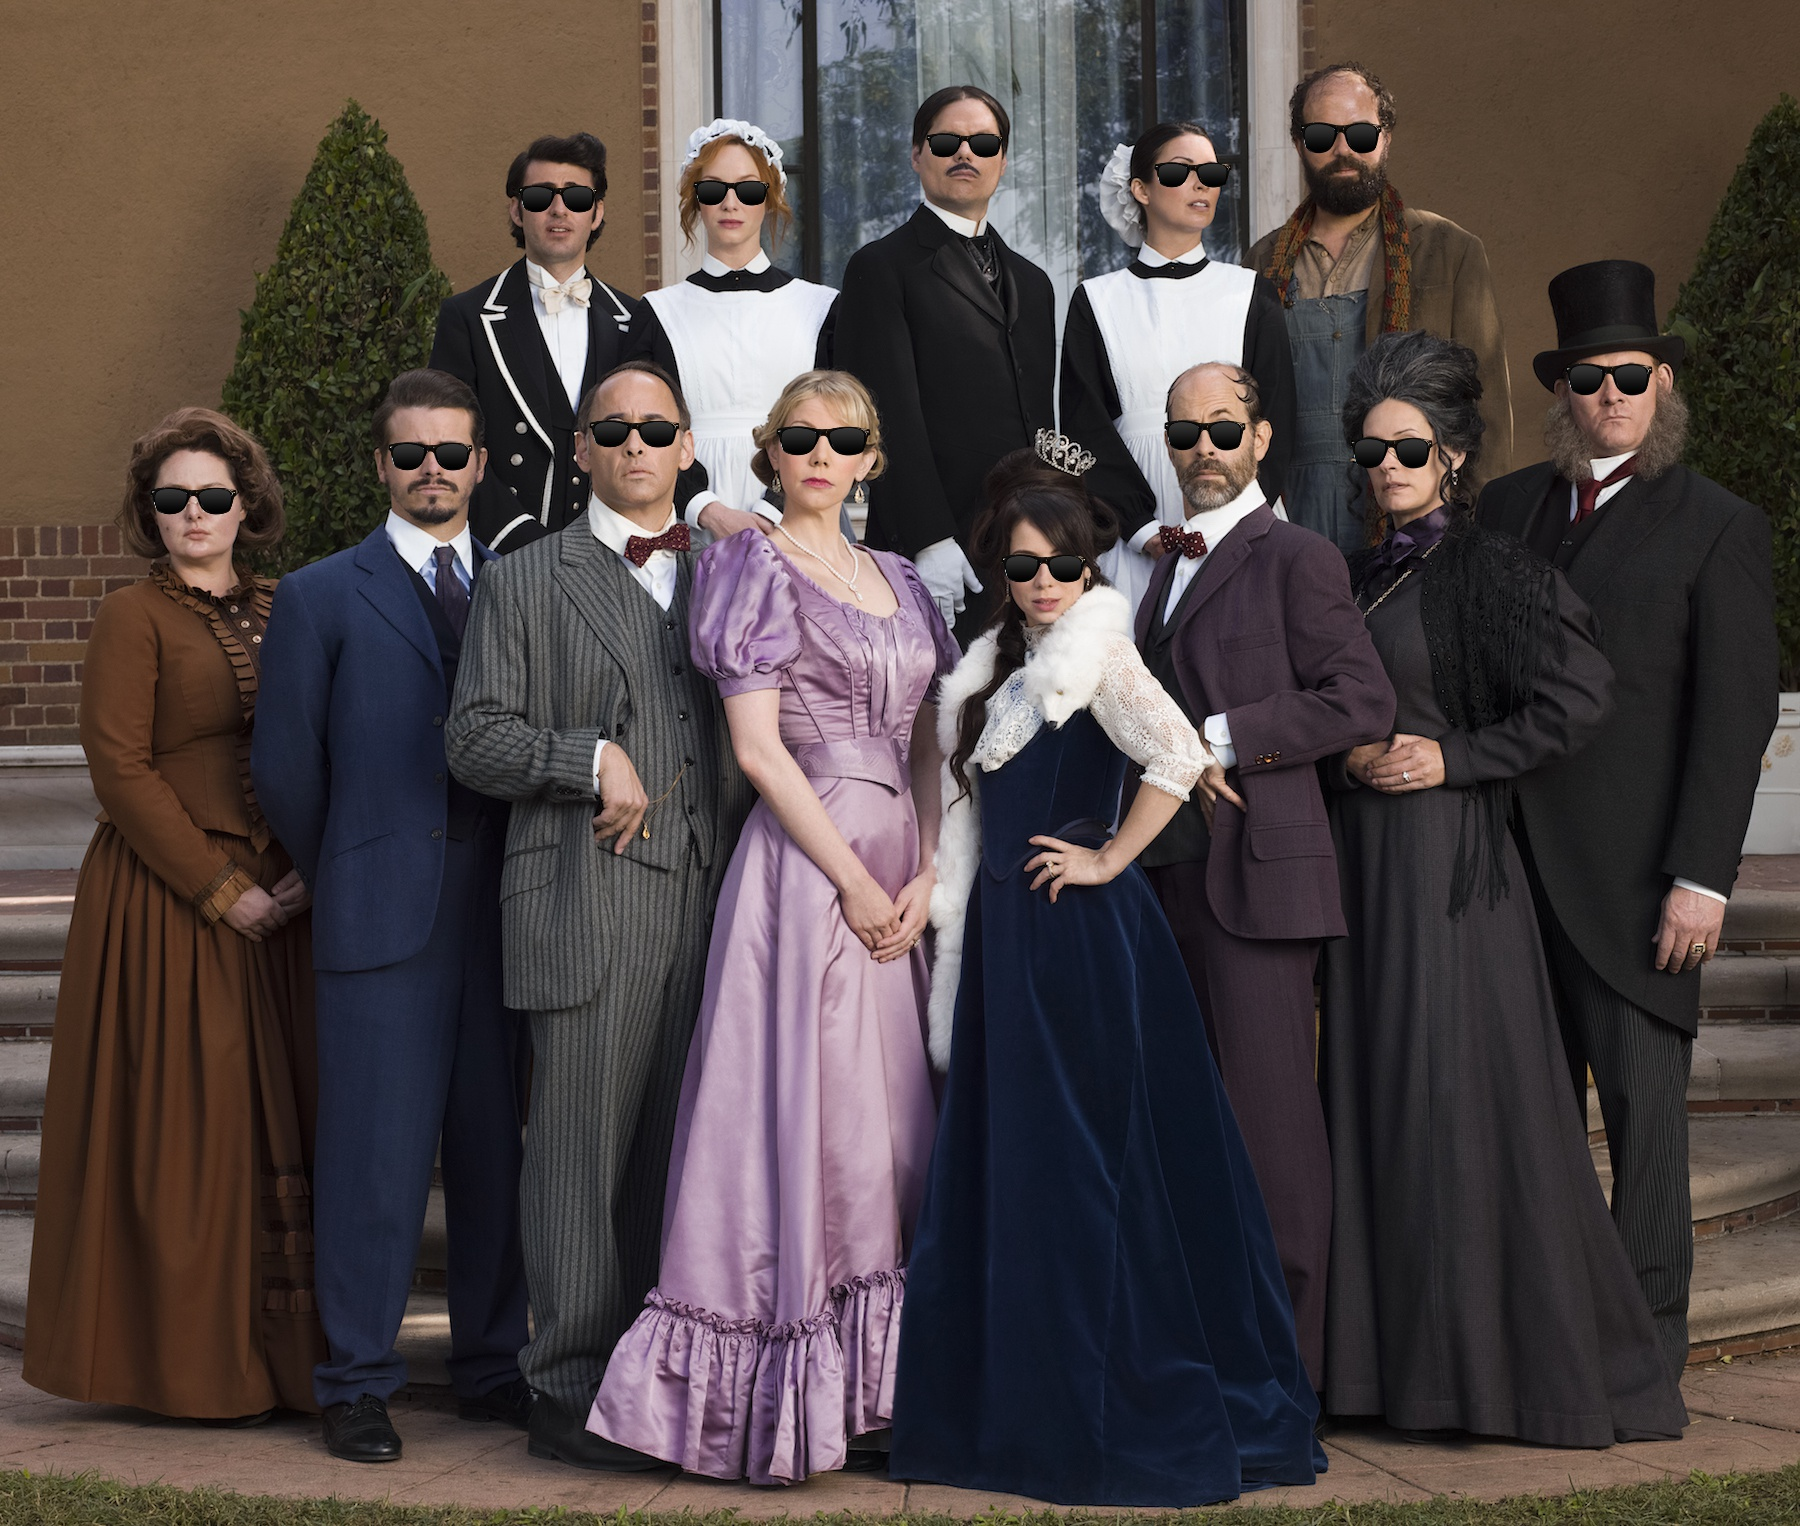
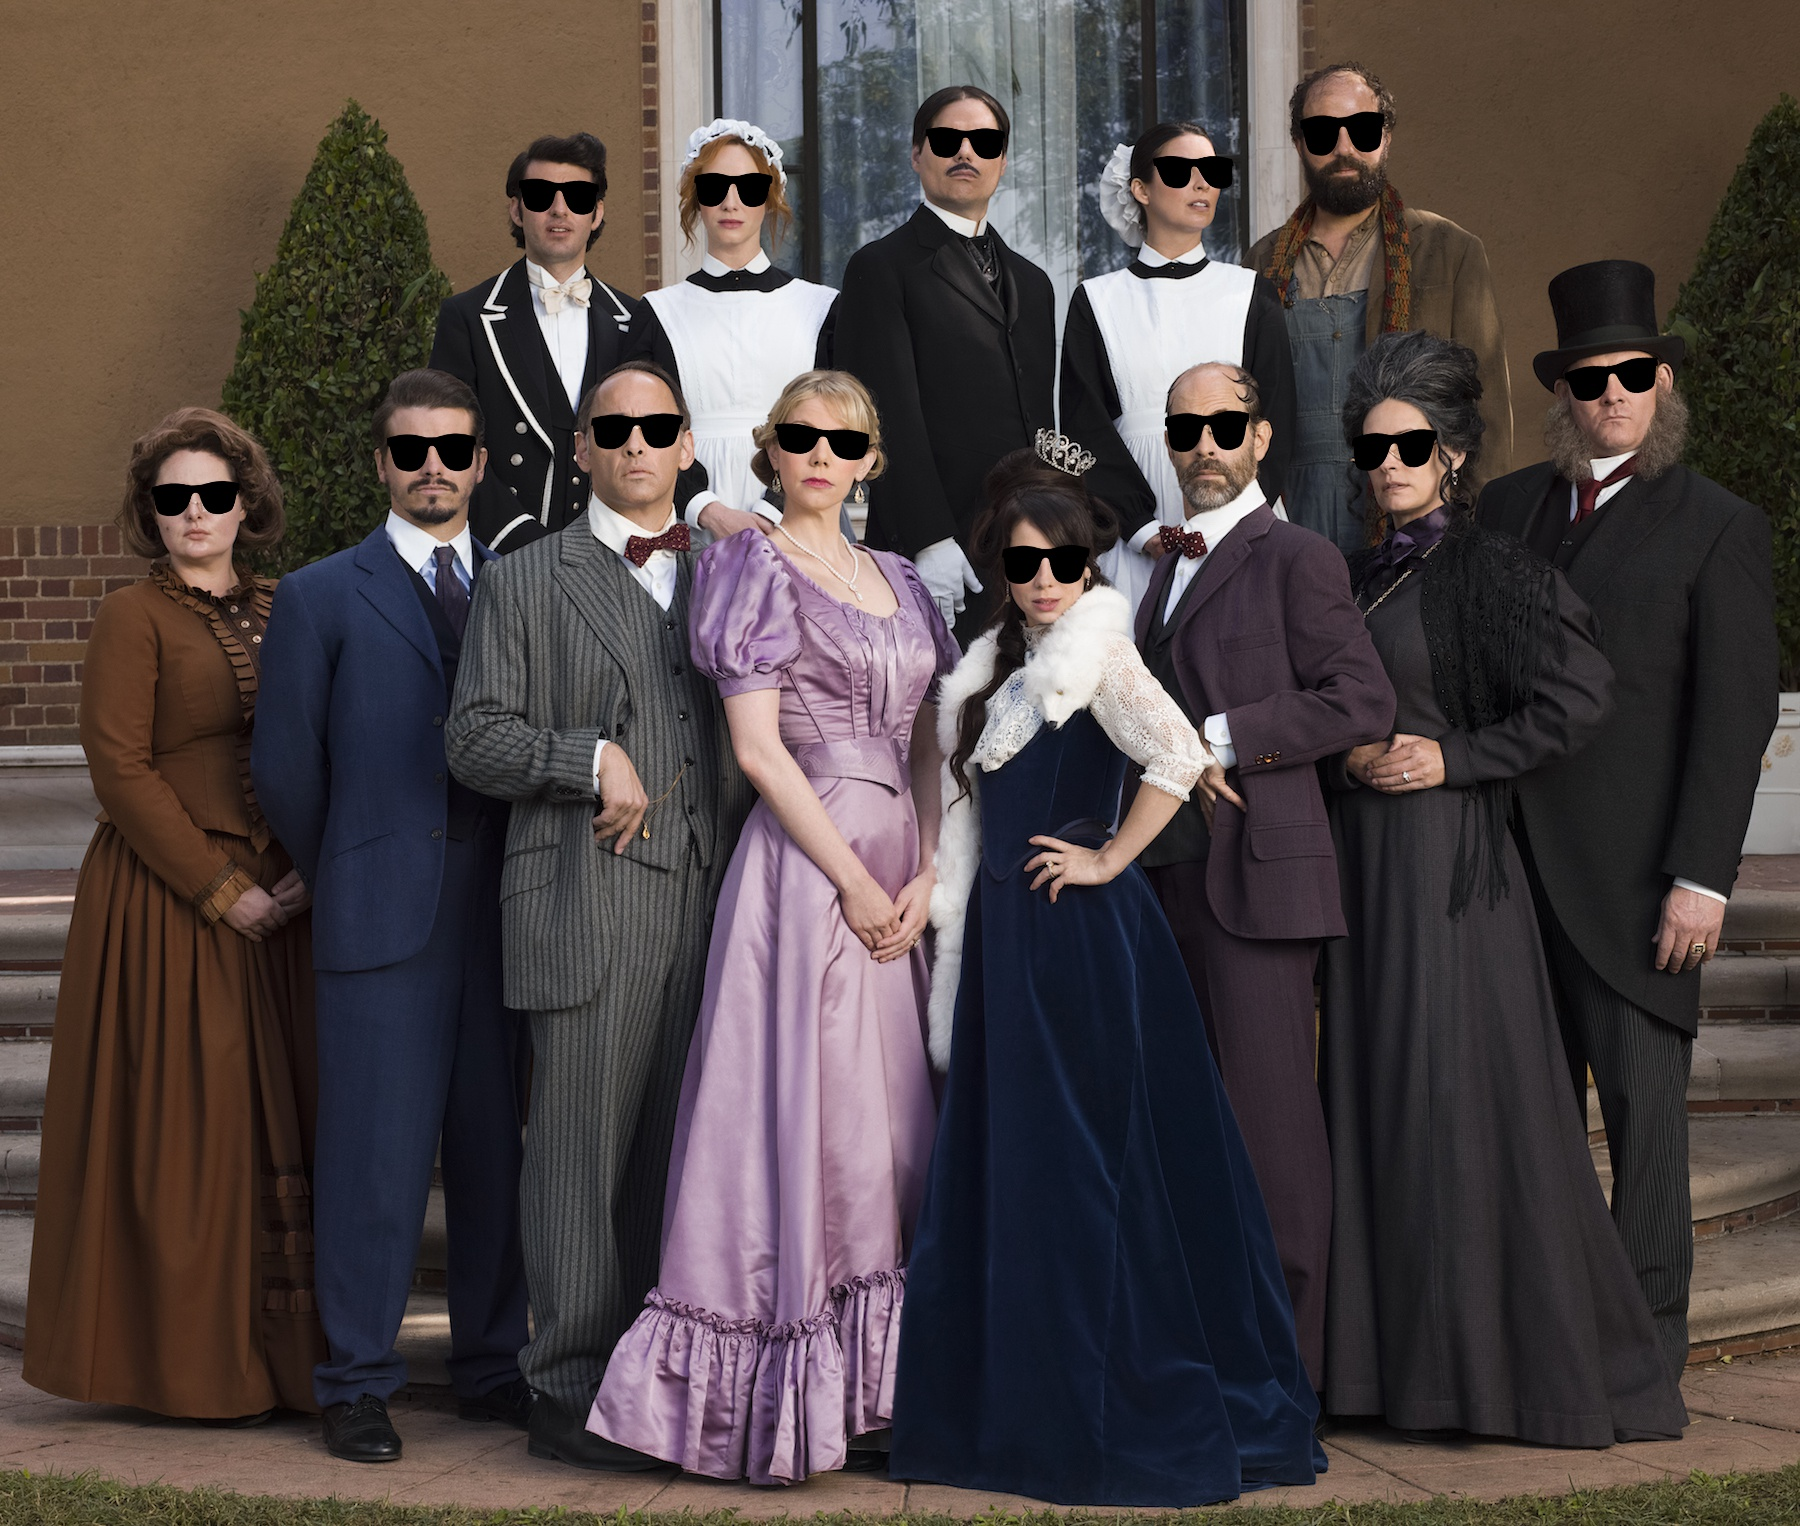
Changed filter transformation to affine transformation

diff --git a/util.py b/util.py
@@ -78,19 +78,33 @@ def add_sunglasses(image_BGR, faces, list_facialFeatures, sg_image='images/sungl
                 (4-channel, where 4th dim is opacity)
     '''
     image_sg = np.copy(image_BGR)
-    sunglasses = cv2.imread(sg_image, cv2.IMREAD_UNCHANGED)
-    #mask = sunglasses[:,:,[3,3,3]]/255
-    #mask_inv = 1-mask
-    #sunglasses = sunglasses[:,:,:3]
+    sunglasses = cv2.imread(sg_image, cv2.IMREAD_UNCHANGED)/255.
 
     for face, facialFeatures in zip(faces,list_facialFeatures):
-        (xmax, xmin, ymax, ymin) = extent_sunglasses(face, facialFeatures)
-        sg = cv2.resize(sunglasses, (xmax-xmin,ymax-ymin))
-        mask = sg[:,:,[3,3,3]]/255
-        mask_inv = 1-mask
-        image_sg[ymin:ymax,xmin:xmax] = np.multiply(sg[:,:,:3],mask) + \
-                    np.multiply(image_sg[ymin:ymax,xmin:xmax],mask_inv)
+        x, y, w, h = face
+        transform = get_sunglasses_transform(face, facialFeatures)
+        sg = cv2.warpAffine(sunglasses, transform, (w,h))
+        mask = sg[:,:,[3,3,3]]
+        image_sg[y:y+h,x:x+w] = np.multiply(sg[:,:,:3],mask) + \
+                    np.multiply(image_sg[y:y+h,x:x+w],1-mask)
+        # (xmax, xmin, ymax, ymin) = extent_sunglasses(face, facialFeatures)
+        # sg = cv2.resize(sunglasses, (xmax-xmin,ymax-ymin))
+        # mask = sg[:,:,[3,3,3]]
+        # image_sg[ymin:ymax,xmin:xmax] = np.multiply(sg[:,:,:3],mask) + \
+        #             np.multiply(image_sg[ymin:ymax,xmin:xmax],mask_inv)
     return image_sg
+
+def get_sunglasses_transform(face, facialFeatures):
+    '''
+    Returns the affine transformation matrix for the sunglasses image
+    '''
+    left_eye = (facialFeatures[6:8] + 1.0) * face[2:] / 2.0
+    right_eye = (facialFeatures[10:12] + 1.0) * face[2:] / 2.0
+    nose = (facialFeatures[20:22] + 1.0) * face[2:] / 2.0
+
+    src = np.float32([[37, 30], [147, 30], [92, 65]])
+    dst = np.float32([left_eye, right_eye, nose])
+    return cv2.getAffineTransform(src,dst)
 
 def extent_sunglasses(face, facialFeatures):
     '''
